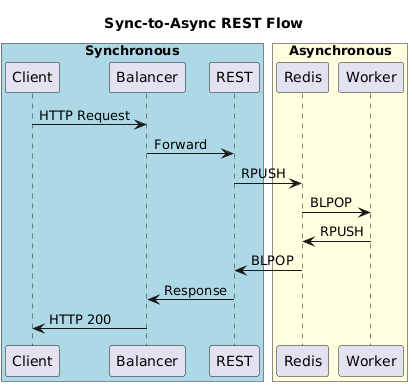
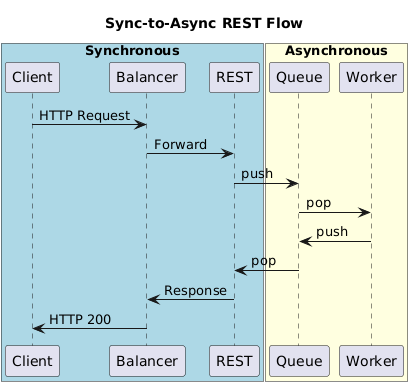
ignores

diff --git a/readme.md b/readme.md
@@ -38,5 +38,21 @@ Incoming requests are enqueued and processed asynchronously, while the REST laye
 - **Mixed Processing Modes** – Lightweight tasks can be fast-tracked; heavy tasks can be queued.
 - **Uniform API Interface** – Clients communicate with a standard REST API, abstracting away the async complexity.
 
-## Events Flow
+## Architecture Overview
 
+The diagram below illustrates the full lifecycle of a request in the sync-to-async system:
+
+![Sync-to-Async Flow](https://raw.githubusercontent.com/intelligent002/sync-to-async/refs/heads/main/charts/flow.png?token=GHSAT0AAAAAACKX6JA3NC3ABEQEW4SKIARWZ75NGRQ)
+
+### Flow Description:
+
+## Architecture Overview
+
+This architecture decouples synchronous API request handling from backend processing using a centralized queue.
+
+1. The **Client** sends a request to the **Balancer**, which routes it to a **REST API** instance.
+2. The **REST API** enqueues the job in a central **Queue** and waits for a result tied to the request ID.
+3. A **Worker** consumes the job from the **Queue**, processes it, and responds to the request-specific response channel in the **Queue**.
+4. The **REST API** picks up the result and replies to the client.
+
+This pattern is backend-agnostic and supports various queue implementations such as Redis, Kafka, RabbitMQ, etc.
